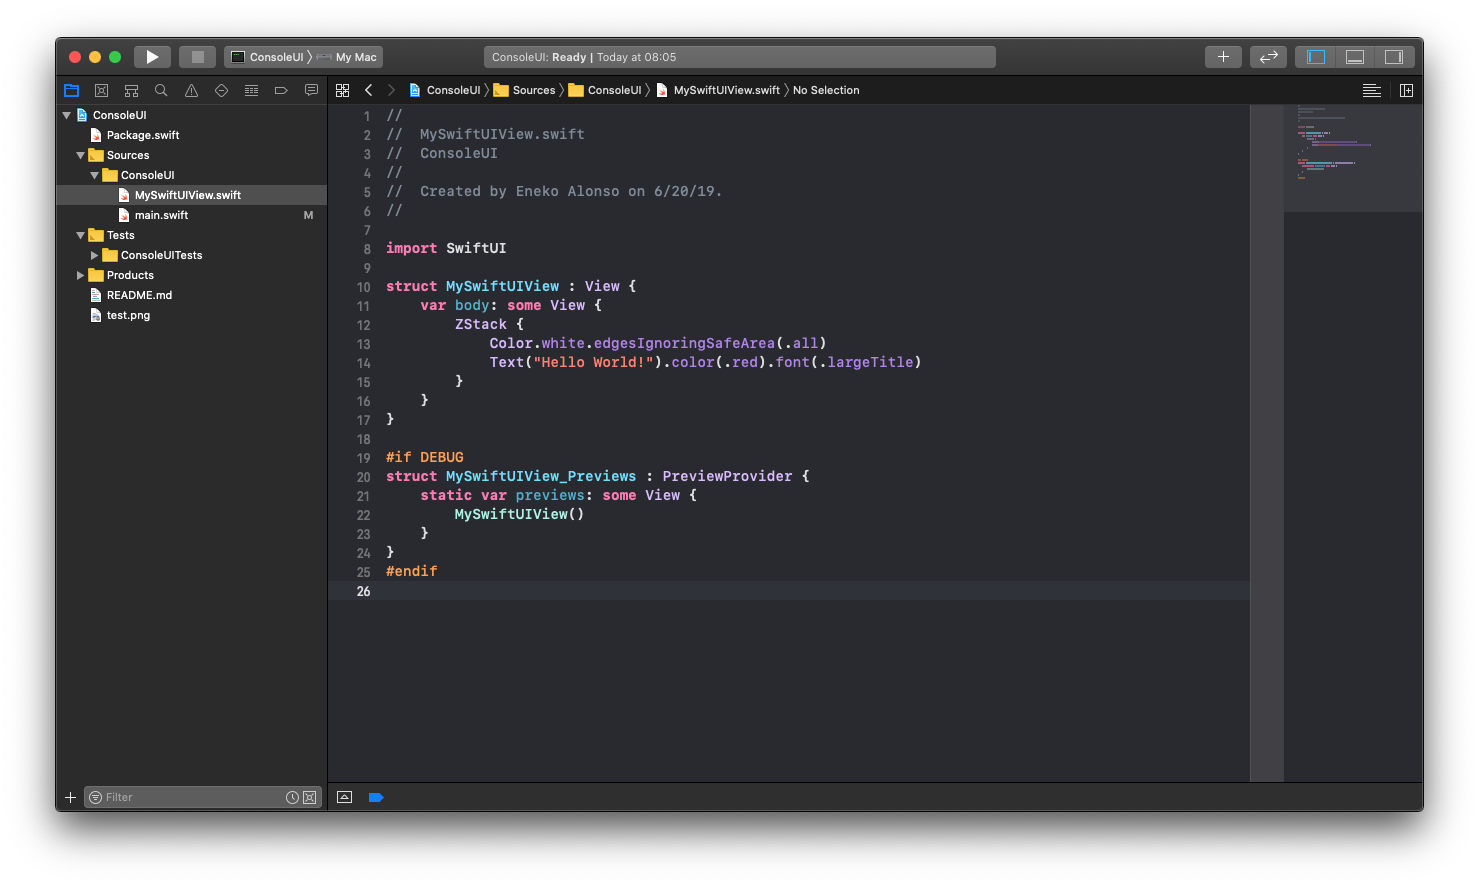
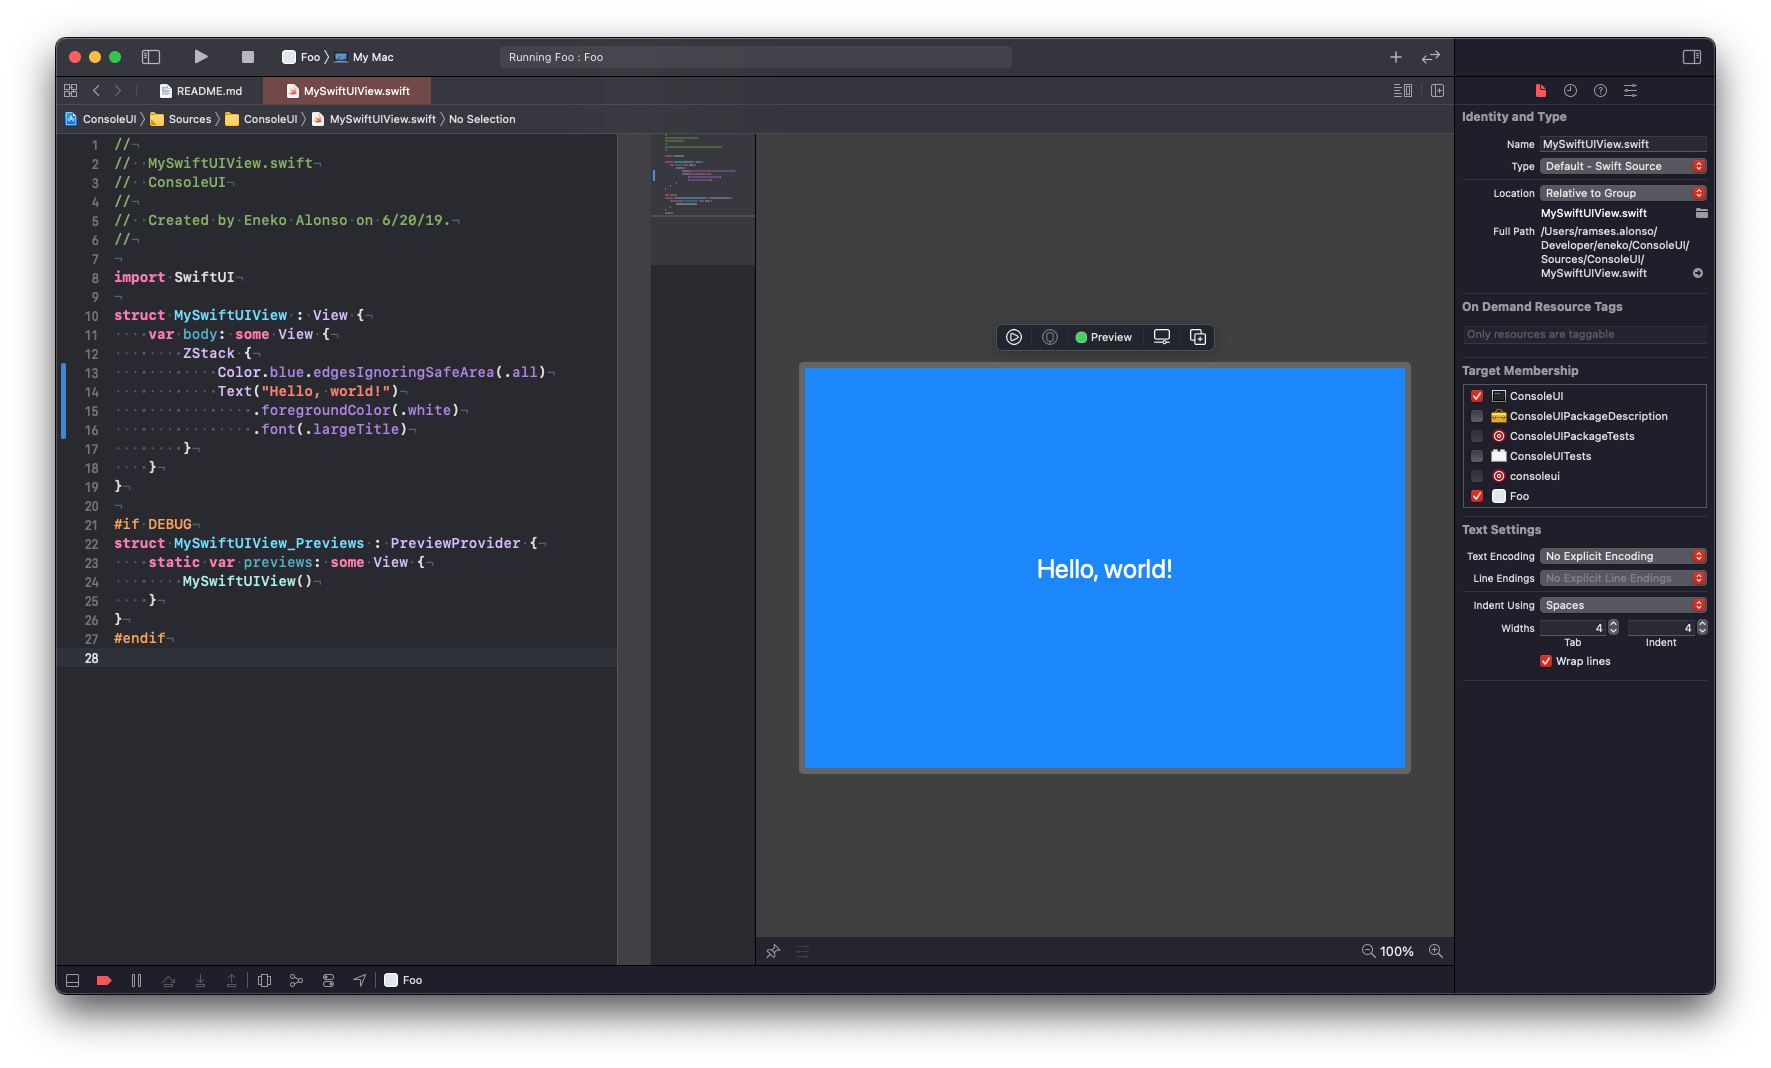
Updates for Xcode 12.4

diff --git a/Package.swift b/Package.swift
@@ -1,5 +1,4 @@
 // swift-tools-version:5.1
-// The swift-tools-version declares the minimum version of Swift required to build this package.
 
 import PackageDescription
 
@@ -8,18 +7,11 @@ let package = Package(
     platforms: [
         .macOS(.v10_15)
     ],
-    dependencies: [
-        // Dependencies declare other packages that this package depends on.
-        // .package(url: /* package url */, from: "1.0.0"),
+    products: [
+        .executable(name: "consoleui", targets: ["ConsoleUI"])
     ],
     targets: [
-        // Targets are the basic building blocks of a package. A target can define a module or a test suite.
-        // Targets can depend on other targets in this package, and on products in packages which this package depends on.
-        .target(
-            name: "ConsoleUI",
-            dependencies: []),
-        .testTarget(
-            name: "ConsoleUITests",
-            dependencies: ["ConsoleUI"]),
+        .target(name: "ConsoleUI", dependencies: []),
+        .testTarget(name: "ConsoleUITests", dependencies: ["ConsoleUI"])
     ]
 )

diff --git a/Tests/ConsoleUITests/ConsoleUITests.swift b/Tests/ConsoleUITests/ConsoleUITests.swift
@@ -3,11 +3,6 @@ import class Foundation.Bundle
 
 final class ConsoleUITests: XCTestCase {
     func testExample() throws {
-        // This is an example of a functional test case.
-        // Use XCTAssert and related functions to verify your tests produce the correct
-        // results.
-
-        // Some of the APIs that we use below are available in macOS 10.13 and above.
         guard #available(macOS 10.13, *) else {
             return
         }
@@ -20,13 +15,12 @@ final class ConsoleUITests: XCTestCase {
         let pipe = Pipe()
         process.standardOutput = pipe
 
+        try? FileManager.default.removeItem(atPath: "test.png")
+
         try process.run()
         process.waitUntilExit()
 
-        let data = pipe.fileHandleForReading.readDataToEndOfFile()
-        let output = String(data: data, encoding: .utf8)
-
-        XCTAssertEqual(output, "Hello, world!\n")
+        XCTAssertTrue(FileManager.default.fileExists(atPath: "test.png"))
     }
 
     /// Returns path to the built products directory.

diff --git a/Sources/ConsoleUI/MySwiftUIView.swift b/Sources/ConsoleUI/MySwiftUIView.swift
@@ -10,8 +10,10 @@ import SwiftUI
 struct MySwiftUIView : View {
     var body: some View {
         ZStack {
-            Color.white.edgesIgnoringSafeArea(.all)
-            Text("Hello, world!").color(.red).font(.largeTitle)
+            Color.blue.edgesIgnoringSafeArea(.all)
+            Text("Hello, world!")
+                .foregroundColor(.white)
+                .font(.largeTitle)
         }
     }
 }

diff --git a/README.md b/README.md
@@ -1,3 +1,5 @@
+
+
 # ConsoleUI
 
 Demo repository to showcase how to **programmatically generate images from a command-line tool with [SwiftUI](https://developer.apple.com/xcode/swiftui/)**.
@@ -15,7 +17,13 @@ $ swift run
 Hello, world!
 ```
 
-### Generate Xcode 11 project
+### Generate Xcode project (optional)
+
+Xcode does not support live previews on Swift packages yet (FB8979344). To allow for realtime previews follow these steps:
+
+1. Generate an Xcode project
+2. Add a macOS target to the project
+3. Add your view (see next section) to the macOS target
 
 ```
 $ swift package generate-xcodeproj
@@ -32,8 +40,10 @@ import SwiftUI
 struct MySwiftUIView : View {
     var body: some View {
         ZStack {
-            Color.white.edgesIgnoringSafeArea(.all)
-            Text("Hello, world!").color(.red).font(.largeTitle)
+            Color.blue.edgesIgnoringSafeArea(.all)
+            Text("Hello, world!")
+                .foregroundColor(.white)
+                .font(.largeTitle)
         }
     }
 }
